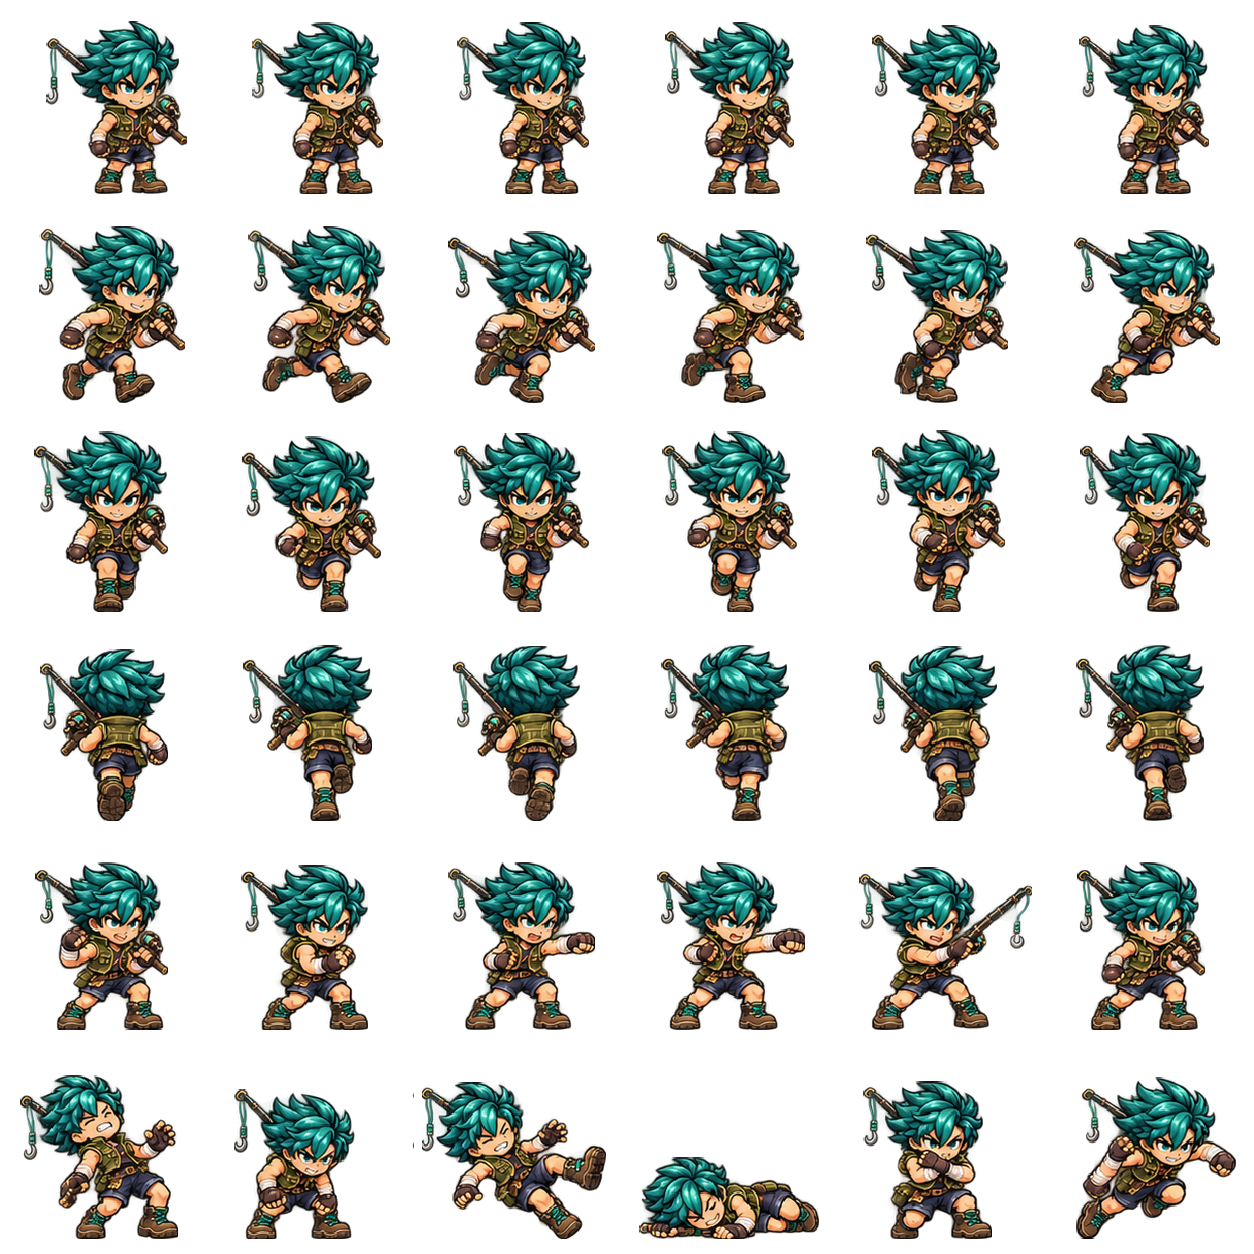
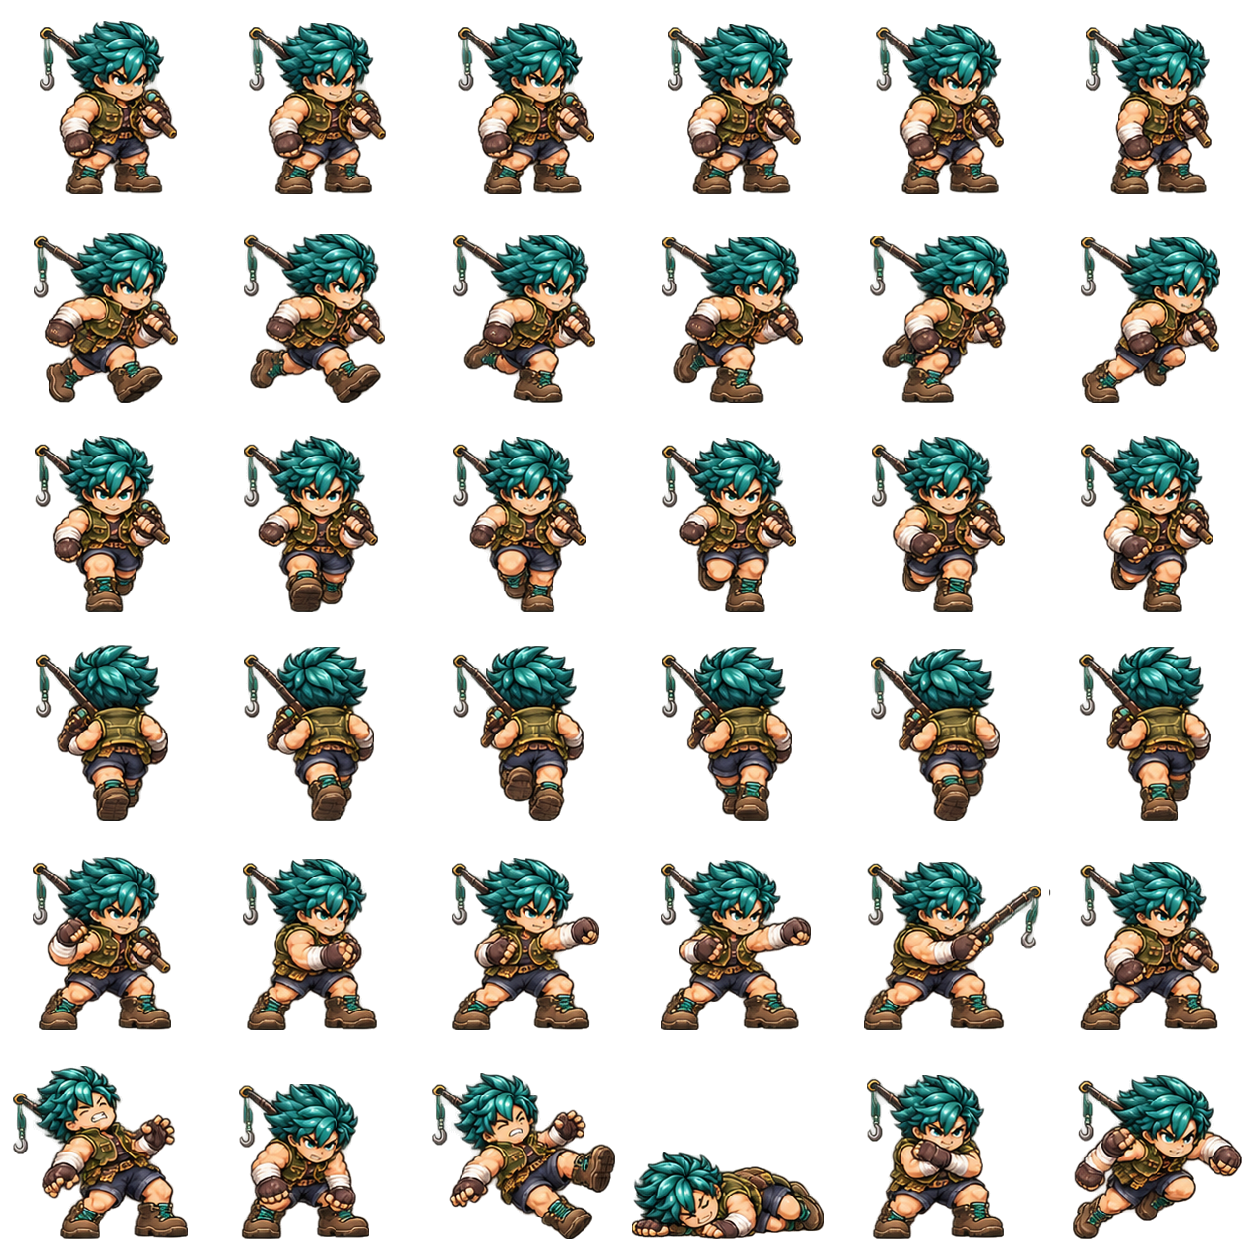
Corrige proporcoes de combate do Cacador e do Herdeiro

diff --git a/index.html b/index.html
@@ -12,5 +12,5 @@
 <section id="modeScreen" class="app-screen" hidden></section><div id="shopConfirm" hidden></div>
 <div id="integrationLoading" role="status" aria-live="polite"><span class="eyebrow">ELDORIA</span><h2>Iniciando Arena dos Campeões…</h2><p id="bootStage">Preparando menus e personagens.</p></div>
 <script src="js/diagnostico.js"></script>
-<script src="js/jogo.js?v=35"></script><script src="js/identidades_campeoes.js?v=11"></script><script src="js/seis_identidades.js?v=21"></script><script src="js/impactos_futuros.js?v=19"></script><script src="js/arena_horizontal.js?v=17"></script><script src="js/lobby_real.js?v=9"></script><script src="js/menus_simples.js?v=20"></script><script src="js/pixel_sprite.js?v=8"></script><script src="js/combate_identidades.js?v=26"></script><script src="js/combate_seis.js?v=28"></script><script src="js/arte_identidades.js?v=33"></script><script src="js/arte_seis.js?v=27"></script><script src="js/interface_identidades.js?v=11"></script><script src="js/interface_seis.js?v=10"></script><script src="js/arena_arte.js?v=15"></script><script src="js/layout_fixo.js?v=19"></script><script src="js/ninja_v22.js?v=26"></script><script src="js/corpos_v24.js?v=29"></script><script src="js/ninja_v25.js?v=26"></script><script src="js/acoes_universais.js?v=26"></script><script src="js/ichigo_v27.js?v=31"></script><script src="js/solar_v29.js?v=34"></script><script src="js/eclipse_v30.js?v=34"></script><script src="js/hunter_v32.js?v=33"></script><script src="js/heir_v33.js?v=33"></script><script src="js/recuperar_artes.js?v=20"></script><script src="js/ui_escala.js?v=4"></script><script src="js/chefes_base.js?v=1"></script><script src="js/chefes_looks.js?v=1"></script><script src="js/vilao_zorvath.js?v=2"></script><script src="js/cacada_dia.js?v=11"></script><script src="js/chefes_motor.js?v=3"></script><script src="js/chefes_lote.js?v=1"></script><script src="js/menu_v2.js?v=3"></script><script src="js/retencao.js?v=3"></script><script src="js/copia_chefe.js?v=3"></script><script src="js/fase_arcade.js?v=10"></script><script src="js/sobrevivencia.js?v=14"></script><script src="js/economia.js?v=2"></script><script src="js/combate_v3.js?v=23"></script><script src="js/hud_v3.js?v=8"></script><script src="js/combate_v3b.js?v=11"></script><script src="js/menus_v3.js?v=2"></script><script src="js/marcas_v3.js?v=2"></script><script src="js/ko_v3.js?v=2"></script><script src="js/iniciar.js"></script><script src="js/tela_cheia.js?v=17"></script></body></html>
+<script src="js/jogo.js?v=35"></script><script src="js/identidades_campeoes.js?v=11"></script><script src="js/seis_identidades.js?v=21"></script><script src="js/impactos_futuros.js?v=19"></script><script src="js/arena_horizontal.js?v=17"></script><script src="js/lobby_real.js?v=9"></script><script src="js/menus_simples.js?v=20"></script><script src="js/pixel_sprite.js?v=8"></script><script src="js/combate_identidades.js?v=26"></script><script src="js/combate_seis.js?v=28"></script><script src="js/arte_identidades.js?v=33"></script><script src="js/arte_seis.js?v=27"></script><script src="js/interface_identidades.js?v=11"></script><script src="js/interface_seis.js?v=10"></script><script src="js/arena_arte.js?v=15"></script><script src="js/layout_fixo.js?v=19"></script><script src="js/ninja_v22.js?v=26"></script><script src="js/corpos_v24.js?v=29"></script><script src="js/ninja_v25.js?v=26"></script><script src="js/acoes_universais.js?v=26"></script><script src="js/ichigo_v27.js?v=31"></script><script src="js/solar_v29.js?v=34"></script><script src="js/eclipse_v30.js?v=34"></script><script src="js/hunter_v32.js?v=34"></script><script src="js/heir_v33.js?v=34"></script><script src="js/recuperar_artes.js?v=20"></script><script src="js/ui_escala.js?v=4"></script><script src="js/chefes_base.js?v=1"></script><script src="js/chefes_looks.js?v=1"></script><script src="js/vilao_zorvath.js?v=2"></script><script src="js/cacada_dia.js?v=11"></script><script src="js/chefes_motor.js?v=3"></script><script src="js/chefes_lote.js?v=1"></script><script src="js/menu_v2.js?v=3"></script><script src="js/retencao.js?v=3"></script><script src="js/copia_chefe.js?v=3"></script><script src="js/fase_arcade.js?v=10"></script><script src="js/sobrevivencia.js?v=14"></script><script src="js/economia.js?v=2"></script><script src="js/combate_v3.js?v=23"></script><script src="js/hud_v3.js?v=8"></script><script src="js/combate_v3b.js?v=11"></script><script src="js/menus_v3.js?v=2"></script><script src="js/marcas_v3.js?v=2"></script><script src="js/ko_v3.js?v=2"></script><script src="js/iniciar.js"></script><script src="js/tela_cheia.js?v=17"></script></body></html>
 

diff --git a/js/hunter_v32.js b/js/hunter_v32.js
@@ -1,6 +1,6 @@
 'use strict';
 // Hunter artwork adapters. Combat damage, charge interruption, costs and cooldowns stay in the engine.
-const HUNTER32_BODY=rwImage('assets/hunter_v32/body.webp?v=32');
+const HUNTER32_BODY=rwImage('assets/hunter_v32/body.webp?v=34');
 const HUNTER32_ADULT=rwImage('assets/hunter_v32/adult.webp?v=32');
 const HUNTER32_KEYS=['punch','charge','heavy','rod','jump','oath','impact'];
 const HUNTER32_FX=Object.fromEntries(HUNTER32_KEYS.map(k=>[k,rwImage(`assets/hunter_v32/${k}.webp?v=32`)]));
@@ -108,4 +108,4 @@ CHAMPION_HEROES.hunter='assets/hunter_v32/portrait.webp?v=32';
 const hunter32OldDetail=openChampionDetails;
 openChampionDetails=function(id){hunter32OldDetail(id);$('#heroDetail')?.classList.toggle('hunter-detail',Number(id)===5);};
 const hunter32OldPreload=reworkPreload;
-reworkPreload=function(skin){if(skin!==5)return hunter32OldPreload(skin);for(const key of ['body','adult','portrait',...HUNTER32_KEYS,...Array.from({length:6},(_,i)=>'icon-'+i)])rwImage(`assets/hunter_v32/${key}.webp?v=32`);};
+reworkPreload=function(skin){if(skin!==5)return hunter32OldPreload(skin);for(const key of ['body','adult','portrait',...HUNTER32_KEYS,...Array.from({length:6},(_,i)=>'icon-'+i)])rwImage(`assets/hunter_v32/${key}.webp?v=${key==='body'?34:32}`);};

diff --git a/js/heir_v33.js b/js/heir_v33.js
@@ -1,6 +1,6 @@
 'use strict';
 // Art-only adapters: the existing engine owns damage, overload and movement.
-const HEIR33_BODY=rwImage('assets/heir_v33/body.webp?v=33');
+const HEIR33_BODY=rwImage('assets/spark_v34/body.webp?v=34');
 const HEIR33_KEYS=['kick','charge','punch','leap','dash','aura','limit','impact'];
 const HEIR33_FX=Object.fromEntries(HEIR33_KEYS.map(k=>[k,rwImage(`assets/heir_v33/${k}.webp?v=33`)]));
 let heir33Height=0;
@@ -128,4 +128,4 @@ CHAMPION_HEROES.spark='assets/heir_v33/portrait.webp?v=33';
 const heir33OldDetail=openChampionDetails;
 openChampionDetails=function(id){heir33OldDetail(id);$('#heroDetail')?.classList.toggle('heir-detail',Number(id)===6);};
 const heir33OldPreload=reworkPreload;
-reworkPreload=function(skin){if(skin!==6)return heir33OldPreload(skin);for(const key of ['body','portrait',...HEIR33_KEYS,...Array.from({length:6},(_,i)=>'icon-'+i)])rwImage(`assets/heir_v33/${key}.webp?v=33`);};
+reworkPreload=function(skin){if(skin!==6)return heir33OldPreload(skin);for(const key of ['body','portrait',...HEIR33_KEYS,...Array.from({length:6},(_,i)=>'icon-'+i)])rwImage(key==='body'?'assets/spark_v34/body.webp?v=34':`assets/heir_v33/${key}.webp?v=33`);};

diff --git a/assets/hunter_v32/README.md b/assets/hunter_v32/README.md
@@ -28,6 +28,8 @@ Cada efeito tem **1536 × 1024**, com **24 quadros de 256 × 256**, 6 colunas ×
 
 Corpo: altura máxima de repouso **173 px**, apoio na linha **y = 193**, eixo horizontal **104,5**. Na arena, a forma jovem mede aproximadamente **73 px** como os outros campeões; a adulta cresce até **103 px** mantendo o apoio no chão. São 36 poses jovens, 24 adultas e 168 quadros de efeitos distintos.
 
+Revisão v34: as 36 poses jovens foram redesenhadas usando `assets/corpos_v24/astral-base.webp` como referência de proporções. Tronco, braços e pernas mais robustos, cabeça menor em relação ao corpo; identidade, ordem das poses, tamanho de célula e apoio no chão preservados. A forma adulta permanece no atlas próprio. O corpo revisado usa `?v=34` para atualizar o cache.
+
 Integração: `js/hunter_v32.js` conecta as artes aos eventos existentes; `css/hunter_v32.css` aplica o cenário. Mantém dano, recargas, cancelamento de carga por dano, custo de vida da ultimate e controles atuais. A forma adulta acompanha o preparo, golpe e recuperação do Juramento Total; o golpe pesado explode somente no contato. As artes detalhadas são desenhadas na resolução do canvas.
 
 Empacotamento técnico dos PNGs gerados: `node scripts/pack-hunter-v32.cjs /pasta/dos/pngs`. O retrato aprovado é preservado separadamente.

diff --git a/assets/spark_v34/README.md b/assets/spark_v34/README.md
@@ -1,0 +1,9 @@
+# Herdeiro da Centelha — corpo de combate v34
+
+`body.webp`: atlas transparente WebP sem perdas de 1254 × 1254, com 36 células de 209 × 209. Proporções e acabamento seguem o primeiro campeão (`corpos_v24/astral-base.webp`): tronco largo, membros robustos e cabeça proporcional. Preserva cabelo verde com mecha clara, gola laranja, traje verde-escuro e botas.
+
+Linhas: repouso, corrida lateral, corrida frontal, corrida de costas, socos, reações. A última linha contém reação, recuperação, queda, caído, defesa e esquiva. Altura máxima de repouso: 173 px; sola em y=193. `js/heir_v33.js` normaliza o repouso para 73 px na arena, com o mesmo apoio do primeiro campeão, e usa o canvas diretamente para preservar detalhes. As poses de dano usam apenas reação/recuperação; as poses de queda acompanham o nocaute.
+
+Empacotamento dos PNGs gerados: `node scripts/pack-combat-body.cjs origem.png assets/spark_v34/body.webp`. O empacotador apenas recorta, escala uniformemente e posiciona as células; a anatomia vem da arte gerada.
+
+Validação: com o jogo servido em `http://127.0.0.1:8000`, execute `node tests/combat-proportions-v34.cjs`. Compara repouso e apoio com o primeiro campeão, renderiza estados de combate nas duas orientações e captura a arena em desktop/celular.
